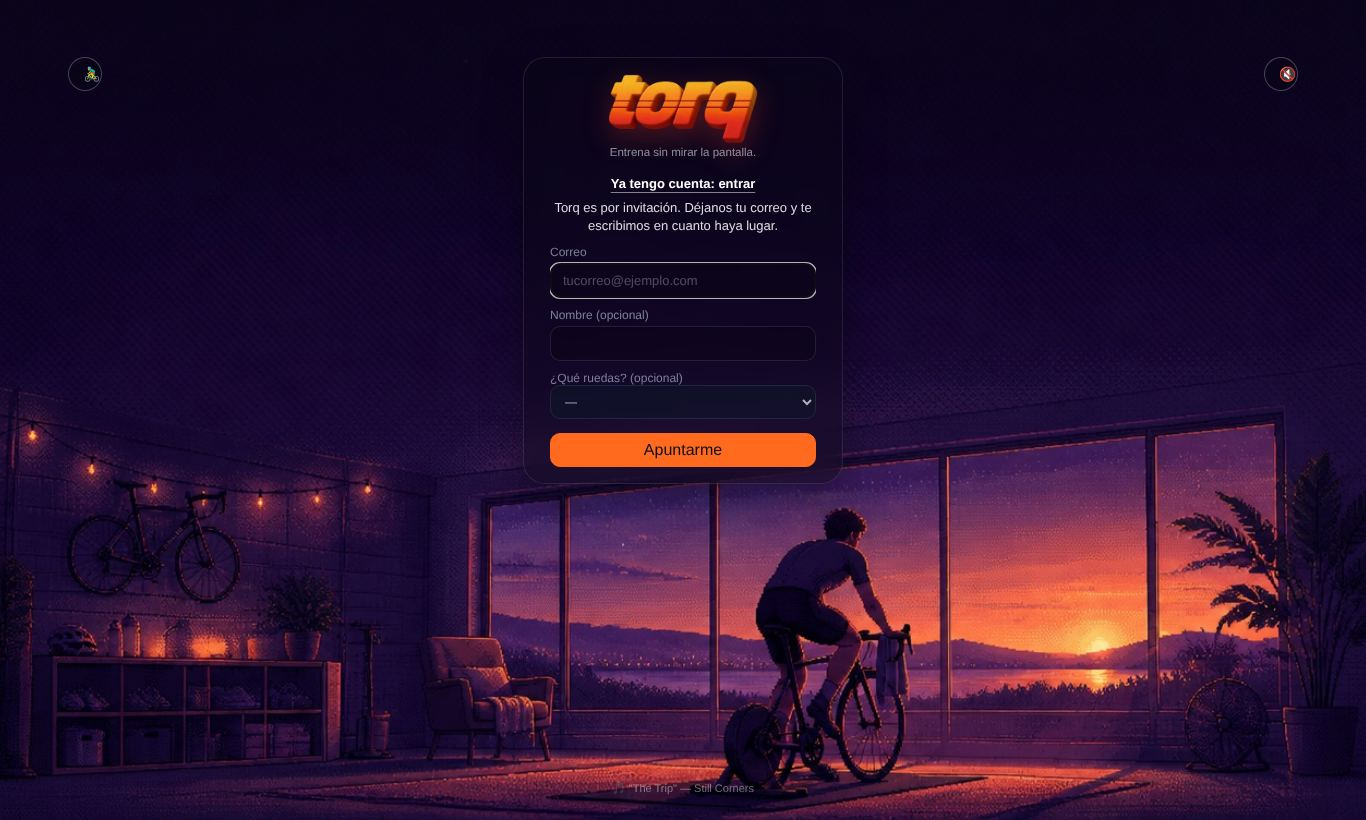
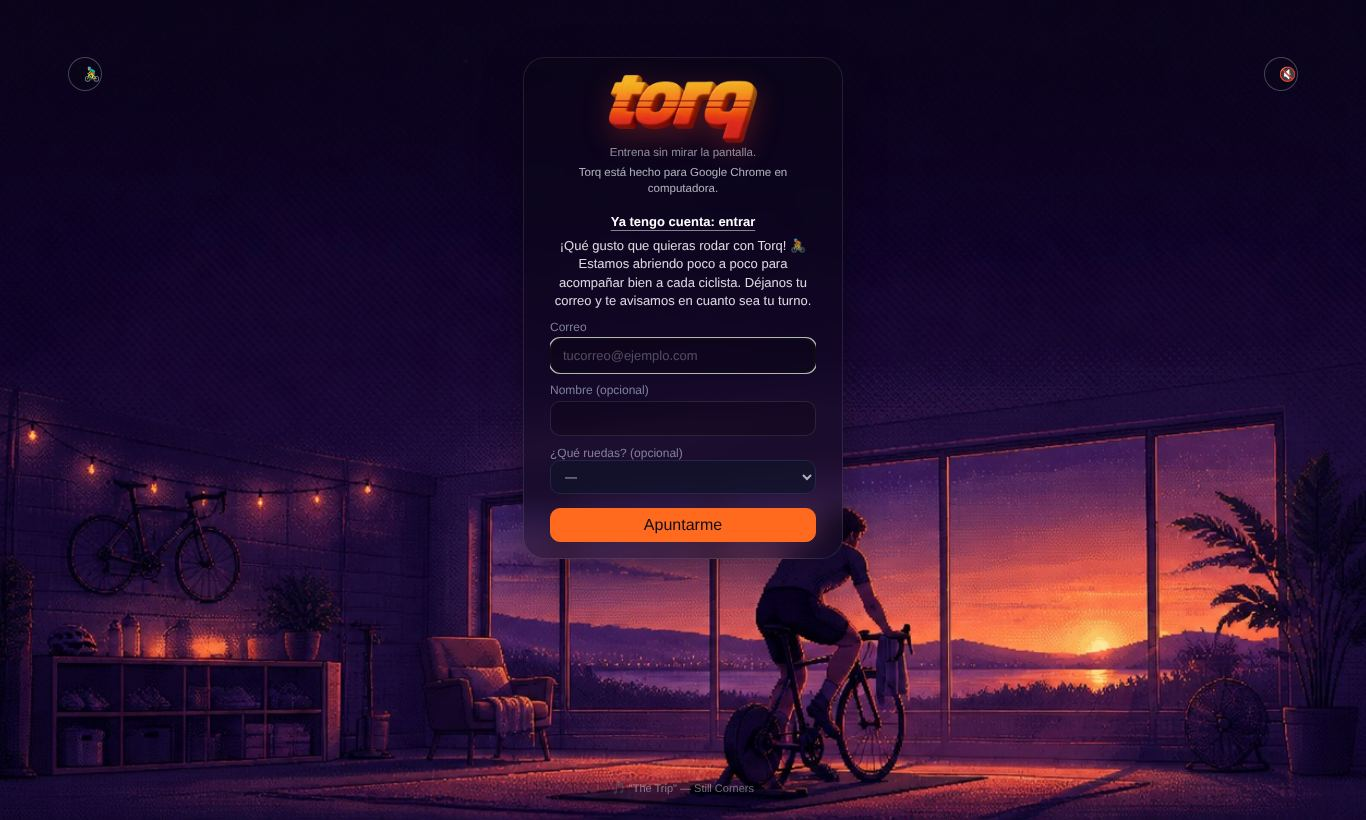
Lista de espera más cálida; otra cuenta en el mismo navegador empieza en Inicio con las guías de Piñón (#73)
* Lista de espera: texto más cálido

"Torq es por invitación… en cuanto haya lugar" sonaba frío. Ahora agradece
y se emociona: "¡Qué gusto que quieras rodar con Torq! 🚴 …te avisamos en
cuanto sea tu turno" y, al apuntarse, "¡Gracias por apuntarte! 🎉 Ya estás
en la lista… ¡Nos vemos en la bici!".

Claude-Session: https://claude.ai/code/session_01PEamorFJQWTATM98QwwjDk

* Otra cuenta en el mismo navegador: empieza en Inicio y con las guías de Piñón

- Cerrar sesión regresa a #/home: antes quien entraba después caía en
  Perfil (donde está «Cerrar sesión») en vez de su bienvenida.
- Si entra una cuenta distinta a la última, se borra lo personal guardado en
  el navegador: guías de Piñón vistas, su chat, logros vistos, avisos
  cerrados y vistas preferidas. Antes la cuenta nueva no veía las guías y
  podía ver el chat de Piñón de la anterior. La misma cuenta que vuelve a
  entrar no pierde nada.

Claude-Session: https://claude.ai/code/session_01PEamorFJQWTATM98QwwjDk

---------

Changed region(s): [[0.3997, 0.1829, 0.5842, 0.4878], [0.369, 0.5183, 0.6149, 0.7012]]

diff --git a/src/storage/local-owner.test.ts b/src/storage/local-owner.test.ts
@@ -1,0 +1,42 @@
+import { describe, expect, it } from 'vitest';
+import { clearPersonalPrefsIfOtherUser } from './local-owner';
+
+function memoryStorage(init: Record<string, string> = {}): Storage {
+  const m = new Map(Object.entries(init));
+  return {
+    get length() {
+      return m.size;
+    },
+    key: (i: number) => [...m.keys()][i] ?? null,
+    getItem: (k: string) => m.get(k) ?? null,
+    setItem: (k: string, v: string) => void m.set(k, v),
+    removeItem: (k: string) => void m.delete(k),
+    clear: () => m.clear(),
+  };
+}
+
+const personal = { 'torq.pinon.guide.home': '1', 'torq.pinon.chat.log': '[]', 'torq.seenAchievements': '[]', 'torq.onboarding.draft.a': '{}' };
+const device = { 'torq.remote.local': 'x', 'torq.local_data_owner': 'a' };
+
+describe('clearPersonalPrefsIfOtherUser', () => {
+  it('otra cuenta en el mismo navegador: borra guías de Piñón, chat y logros; deja lo del aparato', () => {
+    const s = memoryStorage({ ...personal, ...device, 'torq.local_last_user': 'a' });
+    clearPersonalPrefsIfOtherUser('b', s);
+    for (const k of Object.keys(personal)) expect(s.getItem(k)).toBeNull();
+    expect(s.getItem('torq.remote.local')).toBe('x');
+    expect(s.getItem('torq.local_last_user')).toBe('b');
+  });
+
+  it('la misma cuenta que vuelve a entrar: no borra nada', () => {
+    const s = memoryStorage({ ...personal, 'torq.local_last_user': 'a' });
+    clearPersonalPrefsIfOtherUser('a', s);
+    expect(s.getItem('torq.pinon.guide.home')).toBe('1');
+  });
+
+  it('primera vez (sin última cuenta guardada): no borra, solo la recuerda', () => {
+    const s = memoryStorage({ ...personal });
+    clearPersonalPrefsIfOtherUser('a', s);
+    expect(s.getItem('torq.pinon.guide.home')).toBe('1');
+    expect(s.getItem('torq.local_last_user')).toBe('a');
+  });
+});

diff --git a/src/ui/screens/login.ts b/src/ui/screens/login.ts
@@ -34,7 +34,7 @@ function renderLoginGate(container: HTMLElement, client: NonNullable<typeof supa
         </form>
         <button type="button" class="ghost-btn waitlist-toggle" id="waitlist-toggle">¿Sin cuenta? Únete a la lista de espera</button>
         <form class="entry-fields" id="waitlist-form" novalidate>
-          <p class="waitlist-intro">Torq es por invitación. Déjanos tu correo y te escribimos en cuanto haya lugar.</p>
+          <p class="waitlist-intro">¡Qué gusto que quieras rodar con Torq! 🚴 Estamos abriendo poco a poco para acompañar bien a cada ciclista. Déjanos tu correo y te avisamos en cuanto sea tu turno.</p>
           <label>Correo<input type="email" id="waitlist-email" placeholder="tucorreo@ejemplo.com" autocomplete="email"></label>
           <label>Nombre <span class="hint">(opcional)</span><input type="text" id="waitlist-name" maxlength="80" autocomplete="given-name"></label>
           <label>¿Qué ruedas? <span class="hint">(opcional)</span>
@@ -95,7 +95,7 @@ function renderLoginGate(container: HTMLElement, client: NonNullable<typeof supa
     btn.disabled = false;
     if (res === 'ok') {
       waitlistForm.querySelectorAll('label, #waitlist-btn, .waitlist-intro').forEach((el) => ((el as HTMLElement).hidden = true));
-      resultEl.innerHTML = '<p class="waitlist-done">Listo, ya estás en la lista. Te escribimos a ese correo cuando haya lugar.</p>';
+      resultEl.innerHTML = '<p class="waitlist-done">¡Gracias por apuntarte! 🎉 Ya estás en la lista. Te escribimos a ese correo en cuanto sea tu turno. ¡Nos vemos en la bici!</p>';
     } else {
       resultEl.innerHTML = `<div class="error-box">${res === 'invalid_email' ? 'Revisa tu correo: parece que le falta algo.' : 'No se pudo guardar. Intenta de nuevo en un momento.'}</div>`;
     }

diff --git a/e2e/nube/01-primer-ingreso.spec.ts b/e2e/nube/01-primer-ingreso.spec.ts
@@ -89,6 +89,31 @@ test.describe('Entrar a la app', () => {
     expect(backend.calls.filter((c) => c.name === 'login')).toHaveLength(0);
   });
 
+  test('otra cuenta en el mismo navegador: tras «Cerrar sesión» en Perfil entra a su bienvenida, con las guías de Piñón', async ({ page, backend, ux }) => {
+    const ana = user('ana');
+    const beto = user('beto');
+    backend.users.push(ana, beto);
+    await login(page, ux, ana);
+    await expect(page.locator('.home-screen')).toBeVisible();
+    // Ana ya vio la guía de Plan y platicó con Piñón en este navegador
+    await page.evaluate(() => {
+      localStorage.setItem('torq.pinon.guide.plan', '1');
+      localStorage.setItem('torq.pinon.chat.log', '[{"from":"user","text":"hola"}]');
+    });
+    await page.goto('/#/profile');
+    await ux.click(page.locator('#signout'), 'Cerrar sesión');
+    await expect(page.locator('#entry-toggle')).toBeVisible();
+    await expect(page).toHaveURL(/#\/home$/);
+    await ux.click(page.locator('#entry-toggle'), 'Entrar (abrir campos)');
+    await ux.fill(page.locator('#login-email'), beto.email, 'Correo');
+    await ux.fill(page.locator('#login-password'), 'secreta', 'Contraseña');
+    await ux.click(page.locator('#login-password-btn'), 'Entrar');
+    await expect(page.locator('.home-welcome')).toBeVisible();
+    await expect(page).toHaveURL(/#\/home$/);
+    const left = await page.evaluate(() => [localStorage.getItem('torq.pinon.guide.plan'), localStorage.getItem('torq.pinon.chat.log')]);
+    expect(left, 'lo de Ana no se queda para Beto').toEqual([null, null]);
+  });
+
   test('un link profundo sin sesión muestra el login y, al entrar, vuelve a esa pantalla', async ({ page, backend, ux }) => {
     const ana = user('ana');
     backend.users.push(ana);

diff --git a/src/storage/local-owner.ts b/src/storage/local-owner.ts
@@ -11,7 +11,32 @@ import { dbClear, STORES } from './db';
  * sincronizar nada. */
 const OWNER_KEY = 'torq.local_data_owner';
 
+/** Lo que es de la persona y no del navegador: guías de Piñón ya vistas,
+ * su historial de chat, logros vistos, avisos que cerró y sus preferencias
+ * de vistas. Si entra otra cuenta en el mismo navegador, se borra: si no,
+ * la cuenta nueva no veía las guías (ya vistas por la anterior) y podía ver
+ * el chat de Piñón de otra persona. */
+const LAST_USER_KEY = 'torq.local_last_user';
+const PERSONAL_PREFIXES = ['torq.pinon.', 'torq.onboarding.draft.', 'torq.seenAchievements', 'torq.ftpOfferDismissed', 'torq.formaAnalysisDays', 'torq.coachAnalysisDays'];
+
+/** Borra lo personal si `userId` no es la última cuenta que entró aquí.
+ * Cerrar sesión y volver a entrar con la misma cuenta no borra nada; la
+ * primera vez (sin última cuenta guardada) tampoco. */
+export function clearPersonalPrefsIfOtherUser(userId: string, storage: Storage = localStorage): void {
+  const last = storage.getItem(LAST_USER_KEY);
+  if (last && last !== userId) {
+    const doomed: string[] = [];
+    for (let i = 0; i < storage.length; i++) {
+      const k = storage.key(i);
+      if (k && PERSONAL_PREFIXES.some((p) => k.startsWith(p))) doomed.push(k);
+    }
+    doomed.forEach((k) => storage.removeItem(k));
+  }
+  storage.setItem(LAST_USER_KEY, userId);
+}
+
 export async function ensureLocalDataOwnership(userId: string | null): Promise<void> {
+  if (userId) clearPersonalPrefsIfOtherUser(userId);
   const owner = localStorage.getItem(OWNER_KEY);
   const current = userId ?? '';
   if (owner === current) return;

diff --git a/e2e/nube/05-decisiones.spec.ts b/e2e/nube/05-decisiones.spec.ts
@@ -104,7 +104,7 @@ test.describe('Lista de espera', () => {
     await ux.fill(page.locator('#waitlist-email'), 'Luis@Correo.com', 'Correo');
     await page.locator('#waitlist-discipline').selectOption('gravel');
     await ux.click(page.locator('#waitlist-btn'), 'Apuntarme');
-    await expect(page.locator('#waitlist-result')).toContainText('ya estás en la lista');
+    await expect(page.locator('#waitlist-result')).toContainText('¡Gracias por apuntarte! 🎉 Ya estás en la lista.');
     await expect(page.locator('#waitlist-email')).toBeHidden();
     expect(backend.table('waitlist')).toEqual([expect.objectContaining({ email: 'luis@correo.com', discipline: 'gravel' })]);
     expect(ux.interactions).toBeLessThanOrEqual(4);
@@ -129,7 +129,7 @@ test.describe('Lista de espera', () => {
     await ux.click(page.locator('#waitlist-toggle'), 'Lista de espera');
     await ux.fill(page.locator('#waitlist-email'), 'luis@correo.com', 'Correo');
     await ux.click(page.locator('#waitlist-btn'), 'Apuntarme');
-    await expect(page.locator('#waitlist-result')).toContainText('ya estás en la lista');
+    await expect(page.locator('#waitlist-result')).toContainText('¡Gracias por apuntarte! 🎉 Ya estás en la lista.');
   });
 
   test('desde la lista de espera se vuelve al login en 1 clic', async ({ page, ux }) => {

diff --git a/src/ui/state.ts b/src/ui/state.ts
@@ -262,6 +262,10 @@ class AppState {
   }
 
   async signOut(): Promise<void> {
+    // Al salir se vuelve a Inicio: si no, quien entre después (otra cuenta en
+    // este navegador) caía en la pantalla donde estaba la anterior — Perfil,
+    // que es donde está «Cerrar sesión» — en vez de su bienvenida.
+    history.replaceState(null, '', '#/home');
     if (supabase) await supabase.auth.signOut();
     // No depende del evento onAuthStateChange para borrar lo local: ese
     // handler compara contra this.user, que el setUser(null) de abajo ya deja
